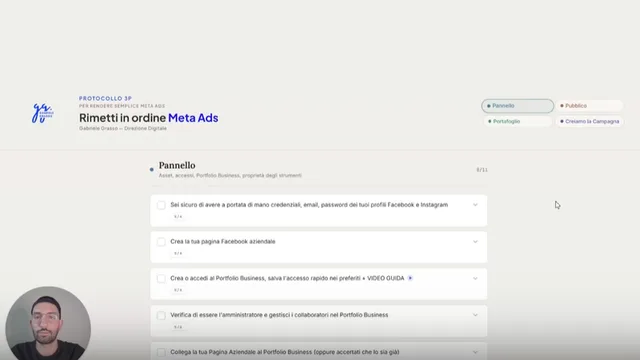
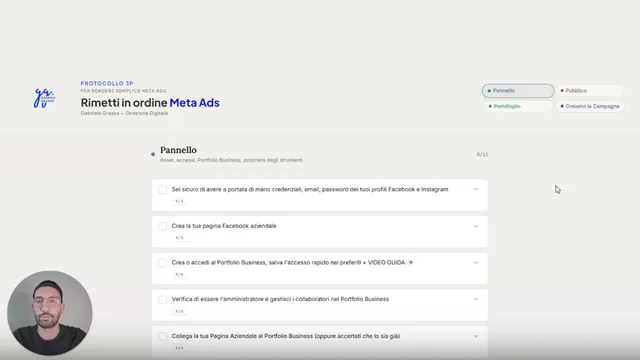
Video: copertina più nitida
Claude-Session: https://claude.ai/code/session_01DEhfCczmyytEcqK4tNVWD3

diff --git a/src/components/sections/video.tsx b/src/components/sections/video.tsx
@@ -45,11 +45,11 @@ export function Video() {
               >
                 <img
                   src="/video-copertina.webp"
-                  srcSet={srcSetFor('/video-copertina.webp', 797)}
+                  srcSet={srcSetFor('/video-copertina.webp', 1600)}
                   sizes="(min-width: 1024px) 912px, 100vw"
                   alt=""
-                  width={797}
-                  height={448}
+                  width={1600}
+                  height={900}
                   loading="lazy"
                   className="absolute inset-0 size-full object-cover"
                 />
